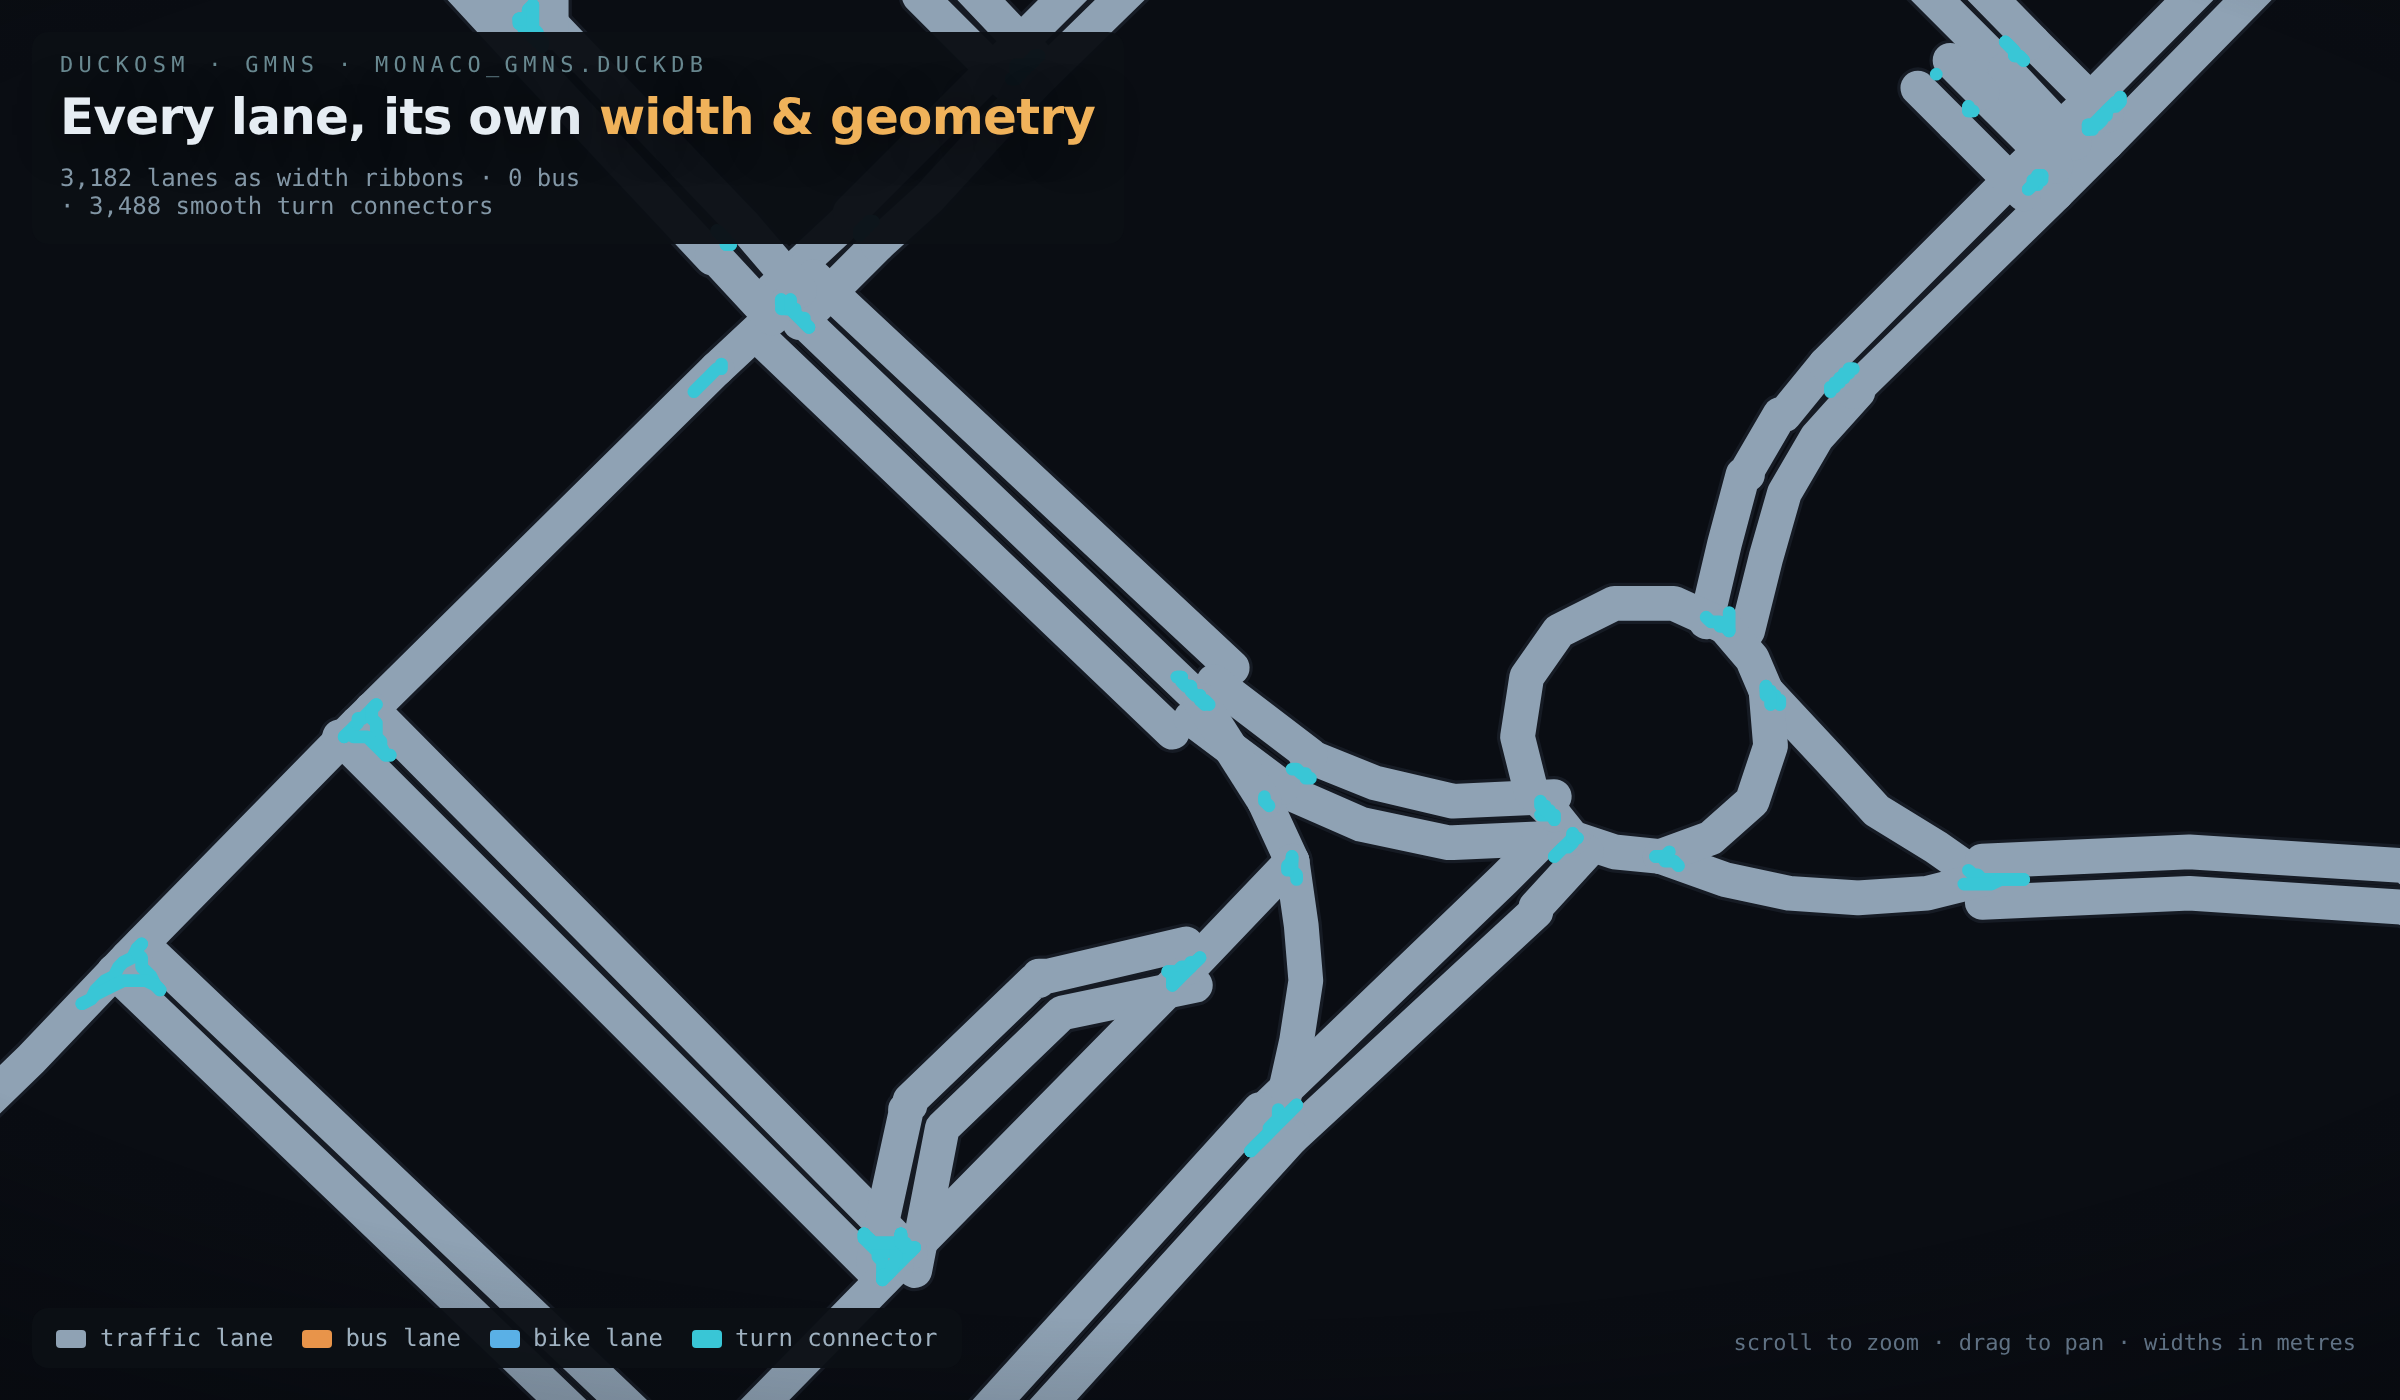
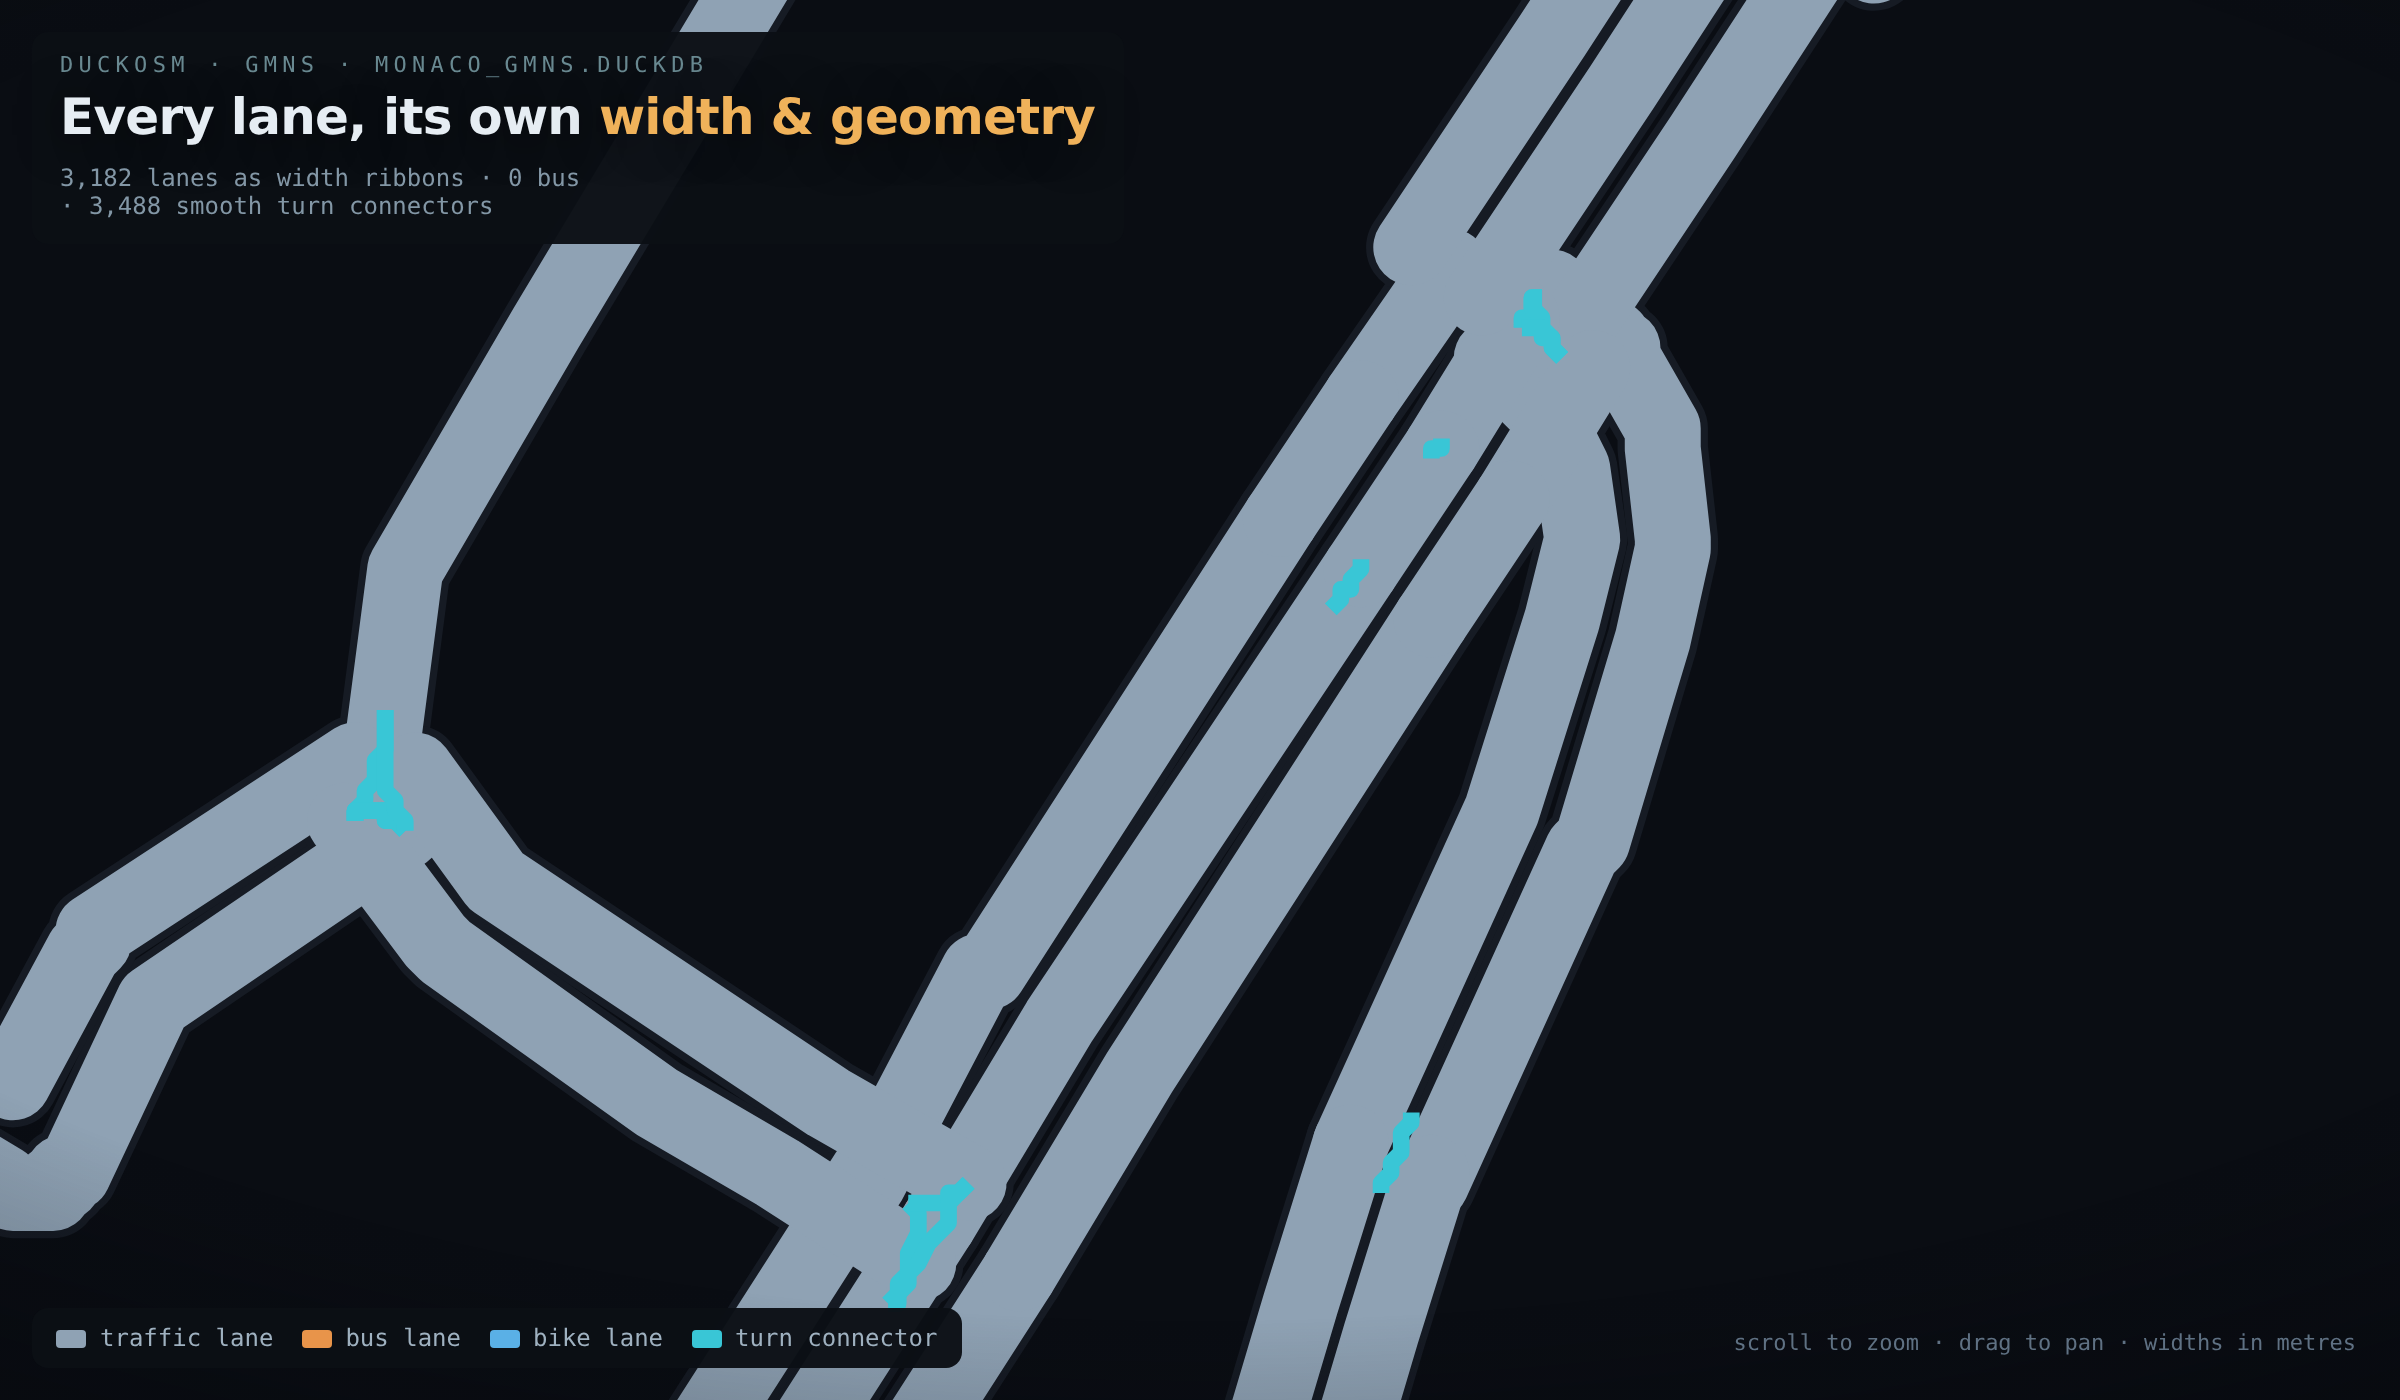
GMNS page: the See it picture zoomed in on Boulevard Princesse Charlotte so each lane shows, with a caption saying what the strips and cyan strokes are; gmns-map draws the turn curves thinner

diff --git a/src/duckosm/gmns_map.py b/src/duckosm/gmns_map.py
@@ -210,5 +210,5 @@ function draw(){ctx.setTransform(1,0,0,1,0,0);ctx.fillStyle='#0a0d13';ctx.fillRe
   ctx.lineCap='round';ctx.lineJoin='round';const m=GPM*v.s*dpr;
   ctx.strokeStyle='#161b24';for(const L of D.lanes){ctx.lineWidth=Math.max(1,L[1]*m);ctx.beginPath();poly(L,2);ctx.stroke();}
   for(const L of D.lanes){ctx.strokeStyle=LC[L[0]];ctx.lineWidth=Math.max(.8,L[1]*m*0.84);ctx.beginPath();poly(L,2);ctx.stroke();}
-  ctx.strokeStyle='#39c6d6';const cw=Math.max(.8,1.0*m);for(const g of D.conn){ctx.lineWidth=cw;ctx.beginPath();poly(g,0);ctx.stroke();}}
+  ctx.strokeStyle='#39c6d6';ctx.lineCap='butt';const cw=Math.max(.8,.6*m);for(const g of D.conn){ctx.lineWidth=cw;ctx.beginPath();poly(g,0);ctx.stroke();}}
 """ + _PANZOOM + "})();</script>"

diff --git a/docs/exports/gmns.md b/docs/exports/gmns.md
@@ -82,7 +82,12 @@ duckosm gmns-map monaco_gmns.duckdb --style lane    # every lane at its width
 
 Each writes one HTML file that opens offline. `-m` picks the mode.
 
-![Monaco drawn by gmns-map --style lane: every lane at its width, and the turns in cyan](../images/gmns_lanes.png)
+![Boulevard Princesse Charlotte in Monaco, drawn by gmns-map --style lane](../images/gmns_lanes.png)
+
+`gmns-map --style lane`, zoomed in on Boulevard Princesse Charlotte in Monaco: each grey strip is one
+lane at its width (three lanes on the boulevard, one or two on the side streets), and each cyan
+stroke is a movement, a turn from one lane into the next road. The short ones in the middle of a
+road are movements too: going straight on where OSM splits the road.
 
 ## Options
 
